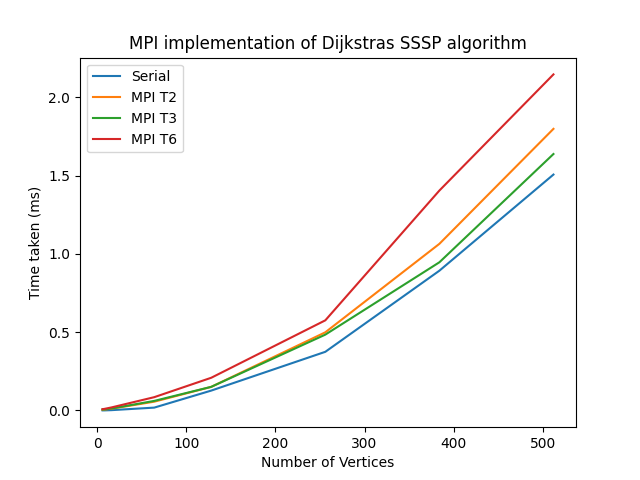
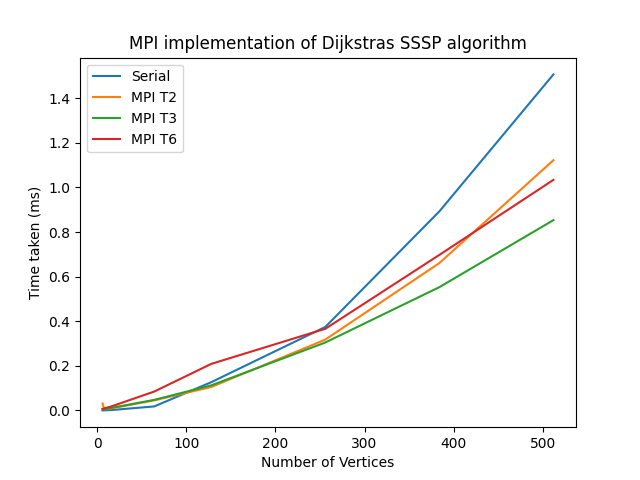
graphs done

diff --git a/sssp_dijkstra/sssp_mpi.c b/sssp_dijkstra/sssp_mpi.c
@@ -6,7 +6,7 @@
  *           sssp.out holds average times for plotting
  *
  * Compile:  gcc -g -Wall sssp_mpi.c -o sssp_mpi -lm
- * Run:      mpiexec -n 4 ./sssp_mpi
+ * Run:      mpiexec -n 3 ./sssp_mpi
  *
  * Algorithm:
  *    1.  For a weighted graph G = (V,E,w), where: V is the set of vertices,
@@ -202,7 +202,7 @@ int main(int argc, char *argv[]) {
             localWeight = (int *)malloc(nlocal*V*sizeof(int));
             localDistance = (int *)malloc(nlocal*sizeof(int));
 
-            double start_time=MPI_Wtime(); //get start time
+            
 
             /*prepare send data */
             for(k=0; k<npes; ++k) {
@@ -216,15 +216,19 @@ int main(int argc, char *argv[]) {
             /*distribute data*/
             MPI_Scatter(sendbuf, nlocal*V, MPI_INT, localWeight, nlocal*V, MPI_INT,
             0, MPI_COMM_WORLD); 
+            
+            double start_time=MPI_Wtime(); //get start time
 
             /*Implement the single source dijkstra's algorithm*/
             SingleSource(0, localWeight, localDistance, MPI_COMM_WORLD);
 
+            double finish_time=MPI_Wtime(); //get finish time   
+            
             /*collect local distance vector at the source process*/
             MPI_Gather(localDistance, nlocal, MPI_INT, dist, nlocal, MPI_INT, 
             0, MPI_COMM_WORLD);
 
-            double finish_time=MPI_Wtime(); //get finish time    
+             
             if (myrank == 0) {
                 total_time+= finish_time-start_time;    //add to total running time
                 free(localWeight);

diff --git a/sssp_dijkstra/plot.py b/sssp_dijkstra/plot.py
@@ -3,7 +3,7 @@ import matplotlib.pyplot as plt
 if __name__ == '__main__':
     
     filepath = './sssp_dijkstra/sssp.out'
-    names = ["Serial", "MPI T2", "MPI T3", "MPI T6", "MPI T8"]
+    names = ["Serial", "OpenMp T3", "MPI T3"]
     x = [6,8,16,64,128,256,384,512]  # this is the range of input sizes tested
     with open(filepath, 'r') as file:
         for i, line in enumerate(file):
@@ -12,7 +12,7 @@ if __name__ == '__main__':
 
     plt.xlabel('Number of Vertices')
     plt.ylabel('Time taken (ms)')
-    plt.title('MPI implementation of Dijkstras SSSP algorithm')
+    plt.title('Comparison of Dijkstras SSSP algorithm')
     plt.legend()
-    plt.savefig('./support_docs/latex_template/pics/sssp_mpi.png')
+    plt.savefig('./support_docs/latex_template/pics/sssp_comparison.png')
     plt.show()

diff --git a/sssp_dijkstra/sssp_omp.c b/sssp_dijkstra/sssp_omp.c
@@ -242,7 +242,7 @@ int* dijkstra(int **graph, int src){
 
     /* OpenMP parallelization starts here */
     #pragma omp parallel private ( my_first, my_id, my_last, my_md, my_mv, my_step )\
-    shared ( src, md, dist, mv, nth, graph )
+    shared ( src, md, dist, mv, nth, graph ) num_threads(3)
     {
         my_id = omp_get_thread_num ( );
         nth = omp_get_num_threads ( );
